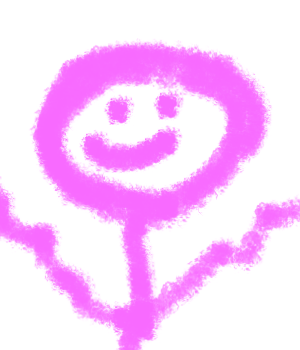
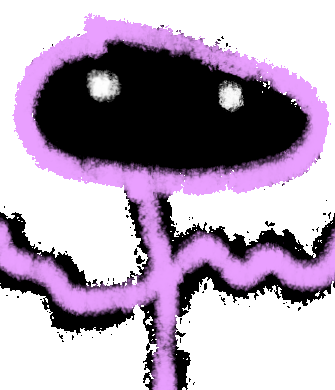
Updated portrait for Cris.

diff --git a/src/main/java/es/cristichi/fnac/anim/RoamingCris.java b/src/main/java/es/cristichi/fnac/anim/RoamingCris.java
@@ -2,7 +2,6 @@ package es.cristichi.fnac.anim;
 
 import es.cristichi.fnac.exception.ResourceException;
 import es.cristichi.fnac.io.Resources;
-import es.cristichi.fnac.io.StaticNightDrawableImage;
 
 import java.awt.*;
 import java.awt.geom.Point2D;
@@ -33,7 +32,7 @@ public class RoamingCris extends AvoidCamsAnimatronicDrawing {
     public RoamingCris(String name, Map<Integer, Integer> aiDuringNight, boolean cameraStalled,
                        boolean globalCameraStalled, List<String> forbiddenCams, Random rng) throws ResourceException {
         super(name, 5, 7, aiDuringNight, cameraStalled, globalCameraStalled,
-                new StaticNightDrawableImage("anims/cris/camImg.png"), null, forbiddenCams, Color.PINK, rng);
+                Resources.loadGif("anims/cris/cam.gif", true), null, forbiddenCams, Color.PINK, rng);
 
         if (jumpscareNormal == null || jumpscareItsMe == null) {
             jumpscareNormal = new Jumpscare(Resources.loadGif("anims/cris/jumpscareNormal.gif", false), 0,

diff --git a/src/main/java/es/cristichi/fnac/anim/PathCris.java b/src/main/java/es/cristichi/fnac/anim/PathCris.java
@@ -2,7 +2,6 @@ package es.cristichi.fnac.anim;
 
 import es.cristichi.fnac.exception.ResourceException;
 import es.cristichi.fnac.io.Resources;
-import es.cristichi.fnac.io.StaticNightDrawableImage;
 
 import java.awt.*;
 import java.util.List;
@@ -31,7 +30,7 @@ public class PathCris extends PathedMoveAnimatronicDrawing {
                     boolean cameraStalled, boolean globalCameraStalled, List<List<String>> camPaths, Random rng)
             throws ResourceException {
         super(name, 5, 4, aiDuringNight, cameraStalled, globalCameraStalled,
-                new StaticNightDrawableImage("anims/cris/camImg.png"), null, camPaths, Color.PINK, rng);
+                Resources.loadGif("anims/cris/cam.gif", true), null, camPaths, Color.PINK, rng);
 
         if (rng.nextFloat() < .009){
             jumpscare = new Jumpscare(Resources.loadGif("anims/cris/jumpscareNormal.gif", false), 0,
